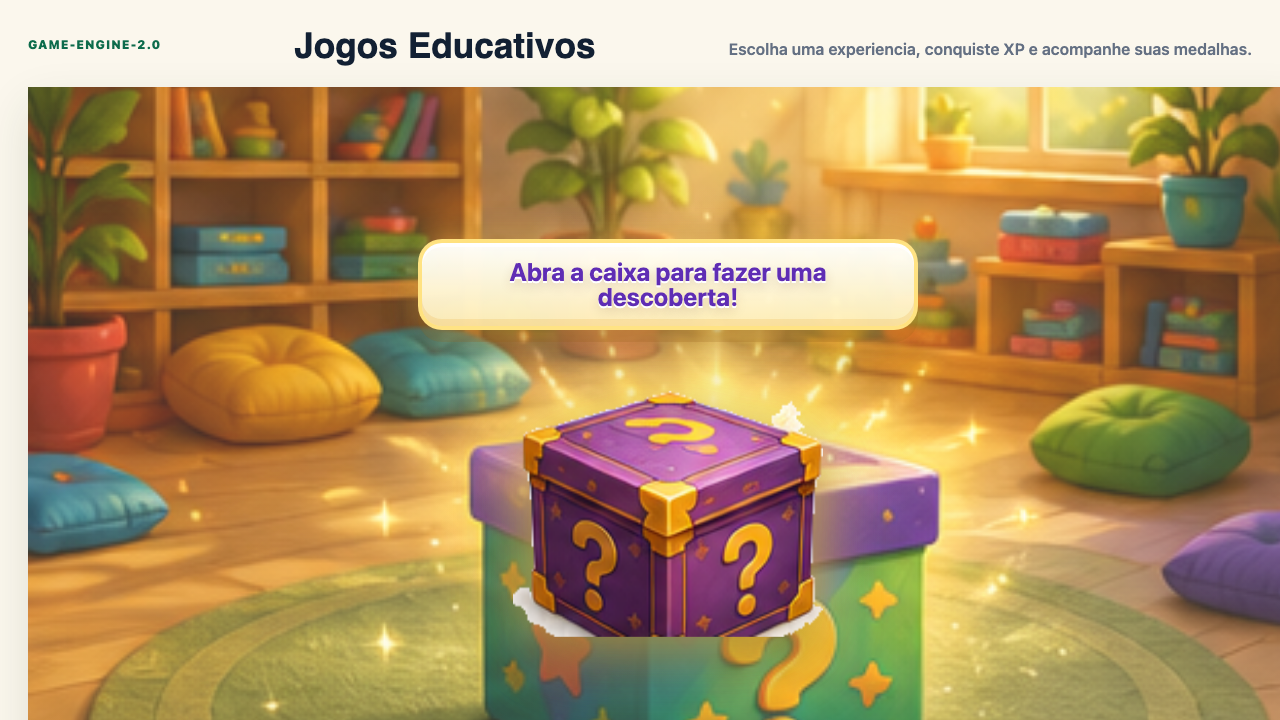
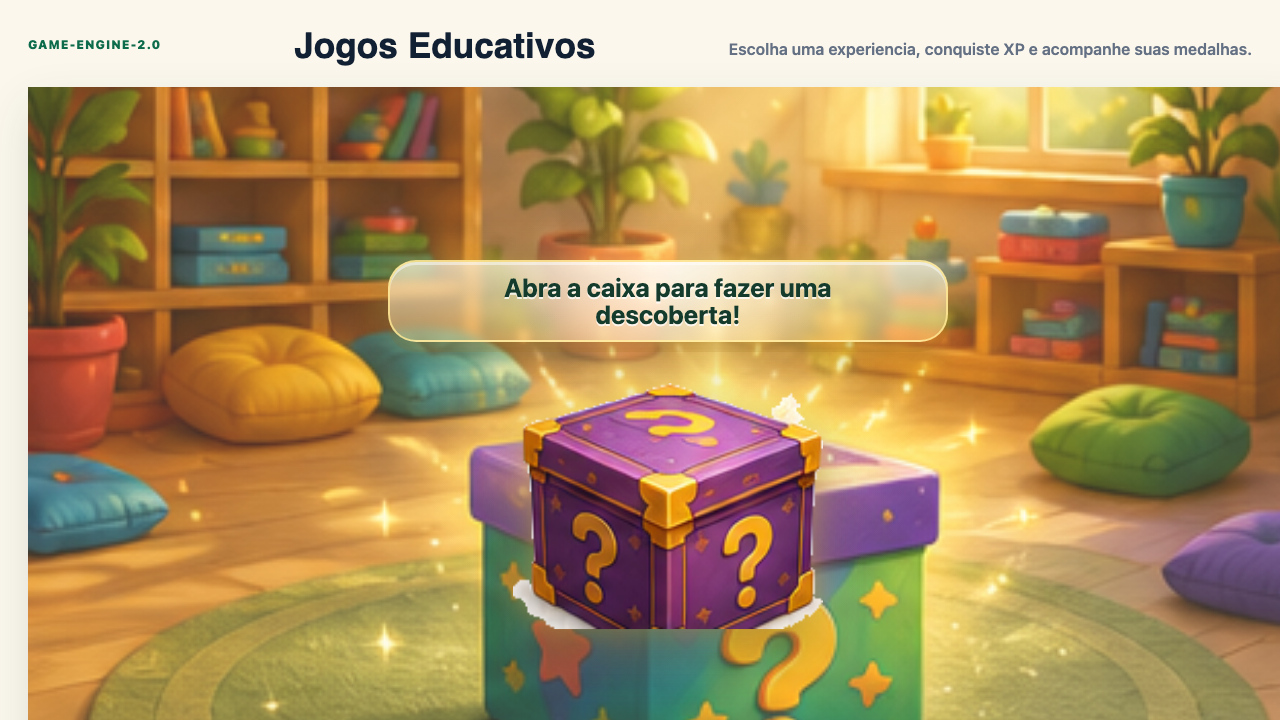
commit

Changed region(s): [[0.375, 0.5194, 0.6562, 0.9472], [0.2812, 0.3056, 0.75, 0.4889]]

diff --git a/game-engine.css b/game-engine.css
@@ -4363,6 +4363,116 @@ body.game-immersive-active .game-stage,
   list-style: none;
 }
 
+.game-engine[data-active-game="caixa-misteriosa"] .selection-intro-screen .selection-butterfly,
+.game-engine[data-active-game="caixa-misteriosa"] .selection-intro-screen .selection-hero-character,
+.game-engine[data-active-game="caixa-misteriosa"] .selection-intro-screen .selection-title-asset,
+.game-engine[data-active-game="caixa-misteriosa"] .selection-intro-screen .selection-hero-composition {
+  display: none !important;
+}
+
+.game-engine[data-active-game="caixa-misteriosa"] .selection-intro-screen .selection-hero {
+  width: min(92vw, 760px) !important;
+  min-height: 100% !important;
+  align-content: center !important;
+  justify-items: center !important;
+  gap: clamp(30px, 5vh, 54px) !important;
+  padding: clamp(24px, 4vh, 44px) clamp(18px, 4vw, 40px) clamp(62px, 10vh, 96px) !important;
+}
+
+.game-engine[data-active-game="caixa-misteriosa"] .selection-intro-screen .selection-hero h1 {
+  max-width: 11ch !important;
+  margin: 0 !important;
+  color: #5bbd36 !important;
+  background: none !important;
+  font-size: clamp(3.4rem, 7.8vw, 6.4rem) !important;
+  font-weight: 1000 !important;
+  line-height: 0.88 !important;
+  letter-spacing: 0 !important;
+  text-align: center !important;
+  transform: none !important;
+  -webkit-text-stroke: 0 !important;
+  text-shadow:
+    0 4px 0 #fff,
+    0 -4px 0 #fff,
+    4px 0 0 #fff,
+    -4px 0 0 #fff,
+    4px 4px 0 #fff,
+    -4px 4px 0 #fff,
+    0 12px 0 rgba(255, 176, 38, 0.28),
+    0 20px 34px rgba(63, 39, 10, 0.24) !important;
+}
+
+.game-engine[data-active-game="caixa-misteriosa"] .selection-intro-screen .selection-hero h1::first-line {
+  color: #58b934 !important;
+}
+
+.game-engine[data-active-game="caixa-misteriosa"] .selection-intro-screen .game-start-button {
+  position: relative !important;
+  left: auto !important;
+  bottom: auto !important;
+  width: auto !important;
+  min-width: clamp(210px, 22vw, 290px) !important;
+  min-height: 68px !important;
+  aspect-ratio: auto !important;
+  margin: 0 !important;
+  padding: 13px 30px 15px !important;
+  border: 4px solid rgba(255, 238, 156, 0.96) !important;
+  border-radius: 24px !important;
+  background-image: none !important;
+  background:
+    linear-gradient(180deg, rgba(255, 255, 255, 0.34), rgba(255, 255, 255, 0) 35%),
+    linear-gradient(180deg, #76d84b, #2aa32e 68%, #177c22) !important;
+  color: #fff !important;
+  font-size: clamp(1.35rem, 2.2vw, 1.8rem) !important;
+  line-height: 1 !important;
+  text-shadow: 0 3px 0 rgba(11, 83, 23, 0.48) !important;
+  box-shadow:
+    inset 0 5px 0 rgba(255, 255, 255, 0.44),
+    inset 0 -7px 0 rgba(5, 78, 25, 0.26),
+    0 9px 0 #08601b,
+    0 20px 30px rgba(3, 70, 25, 0.3),
+    0 0 24px rgba(255, 228, 96, 0.36) !important;
+  filter: none !important;
+  transform: none !important;
+}
+
+.game-engine[data-active-game="caixa-misteriosa"] .selection-intro-screen .game-start-button::after {
+  inset: 7% 12% 55% !important;
+  border-radius: 999px !important;
+  background: linear-gradient(180deg, rgba(255, 255, 255, 0.55), rgba(255, 255, 255, 0)) !important;
+  opacity: 0.72 !important;
+}
+
+.game-engine[data-active-game="caixa-misteriosa"] .selection-box-screen .selection-open-prompt {
+  left: 0 !important;
+  right: 0 !important;
+  top: clamp(92px, 18vh, 150px) !important;
+  width: min(72vw, 560px) !important;
+  min-height: 76px !important;
+  margin-inline: auto !important;
+  padding: 12px clamp(22px, 4vw, 42px) !important;
+  border: 2px solid rgba(255, 232, 148, 0.82) !important;
+  border-radius: 28px !important;
+  background:
+    radial-gradient(circle at 50% 0%, rgba(255, 255, 255, 0.72), rgba(255, 255, 255, 0) 58%),
+    linear-gradient(180deg, rgba(255, 248, 221, 0.74), rgba(255, 226, 144, 0.46)) !important;
+  backdrop-filter: blur(4px) saturate(1.08) !important;
+  box-shadow:
+    inset 0 3px 0 rgba(255, 255, 255, 0.48),
+    0 10px 0 rgba(150, 100, 30, 0.14),
+    0 20px 38px rgba(83, 56, 16, 0.16),
+    0 0 36px rgba(255, 226, 98, 0.34) !important;
+  transform: none !important;
+}
+
+.game-engine[data-active-game="caixa-misteriosa"] .selection-box-screen .selection-open-prompt strong {
+  max-width: 28ch !important;
+  color: #143b2c !important;
+  font-size: clamp(1.2rem, 2vw, 1.7rem) !important;
+  line-height: 1.05 !important;
+  text-shadow: 0 2px 0 rgba(255, 255, 255, 0.76) !important;
+}
+
 .round-list li {
   display: grid;
   grid-template-columns: 28px minmax(0, 1fr);

diff --git a/game-engine.js b/game-engine.js
@@ -1591,7 +1591,7 @@
               <div class="selection-hero-composition" aria-hidden="true">
                 <img class="selection-hero-box" src="${this.game.assets.boxes.closed}" alt="" loading="eager" decoding="async" />
               </div>
-              <button class="game-primary-button game-start-button" type="button" data-game-action="start" aria-label="Comecar ${this.game.title}">▶ Comecar</button>
+              <button class="game-primary-button game-start-button" type="button" data-game-action="start" aria-label="Iniciar ${this.game.title}">▶ Iniciar</button>
             </div>
           </section>
         `;

diff --git a/jogos.html b/jogos.html
@@ -6,12 +6,12 @@
   <title>Jogos Digitais | Raizes e Saberes</title>
   <link rel="icon" type="image/png" href="favicon.png" />
   <link rel="stylesheet" href="master-pack.css" />
-  <link rel="stylesheet" href="game-engine.css?v=oip001c" />
+  <link rel="stylesheet" href="game-engine.css?v=oip001d" />
 </head>
 <body class="master-app">
   <div data-app-page="jogos"></div>
-  <script src="app-pages.js?v=oip001c"></script>
-  <script src="game-engine.js?v=oip001c"></script>
+  <script src="app-pages.js?v=oip001d"></script>
+  <script src="game-engine.js?v=oip001d"></script>
   <script src="script.js"></script>
 </body>
 </html>
